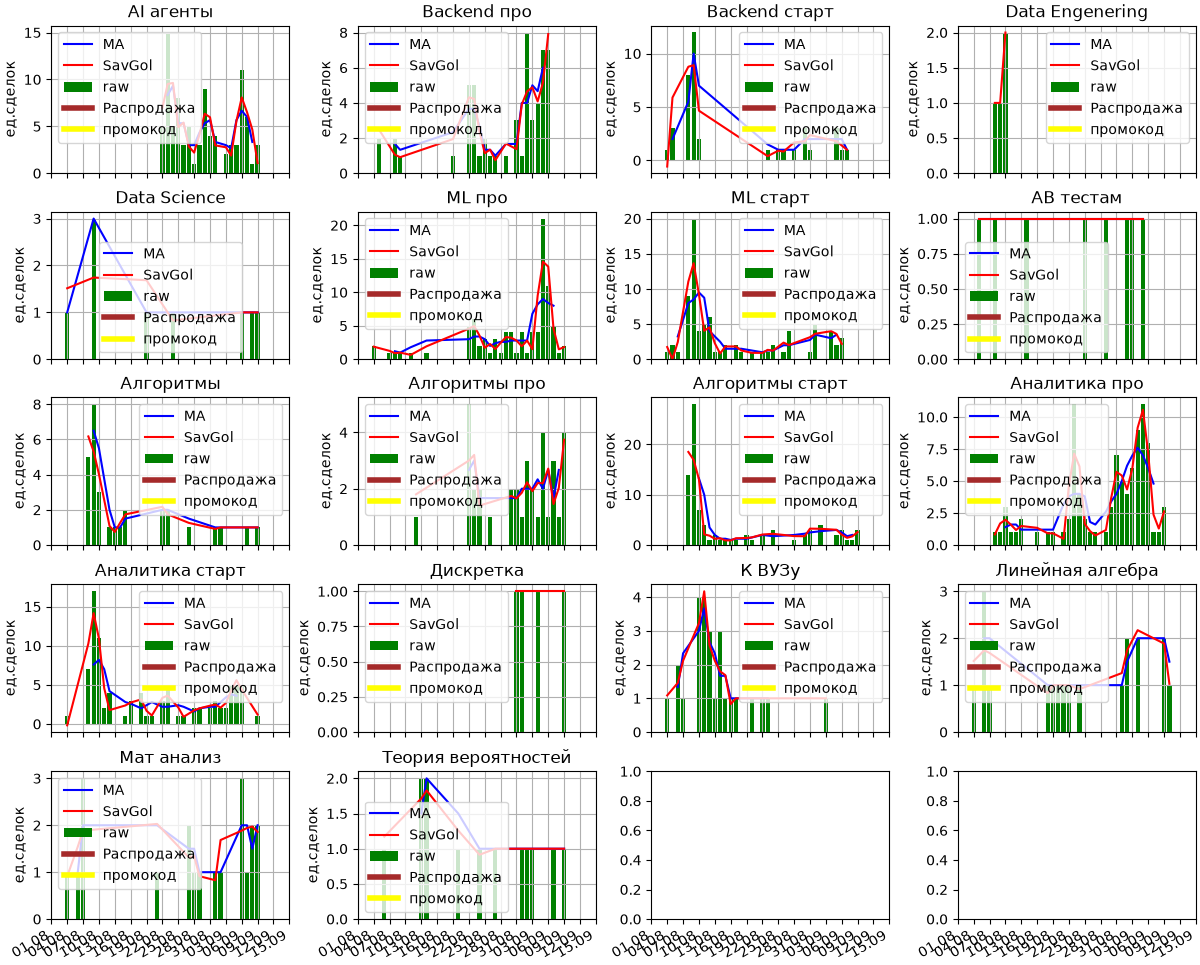
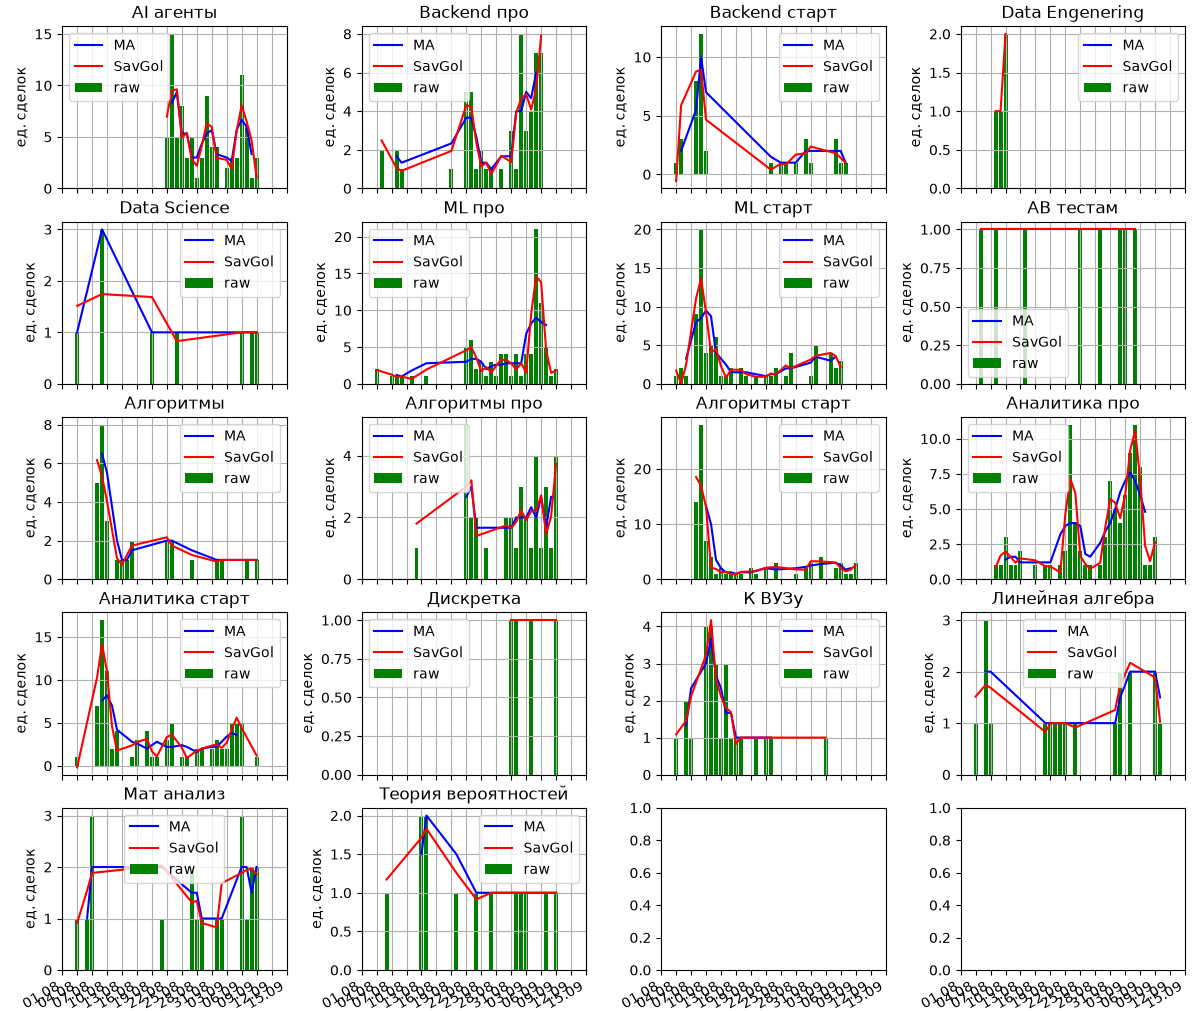
modified:   course_stats.py  	modified:   proc_data/total_course_num_orders_by_dates.png  	modified:   proc_data/total_course_revenue_by_dates.png  	modified:   raw_data/base.csv

Changed region(s): [[0.0, 0.0, 1.0, 1.0]]

diff --git a/course_stats.py b/course_stats.py
@@ -3,6 +3,8 @@ from copy import deepcopy
 
 data = pd.read_csv('raw_data/base.csv')
 
+print(123)
+
 data['Сумма'] =  (
     data['Сумма']
     .str.replace(r'\s+', '', regex=True)
